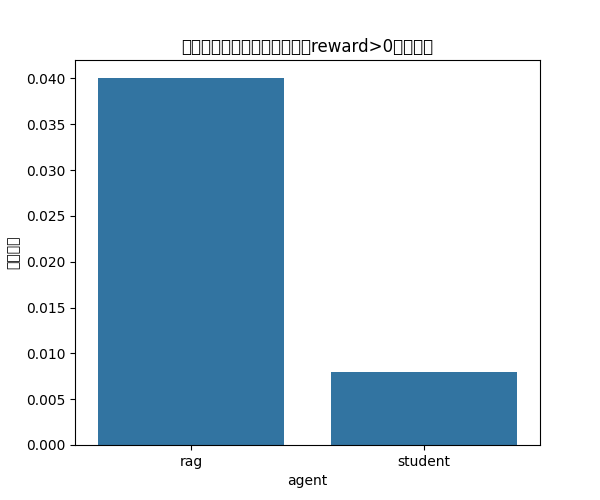
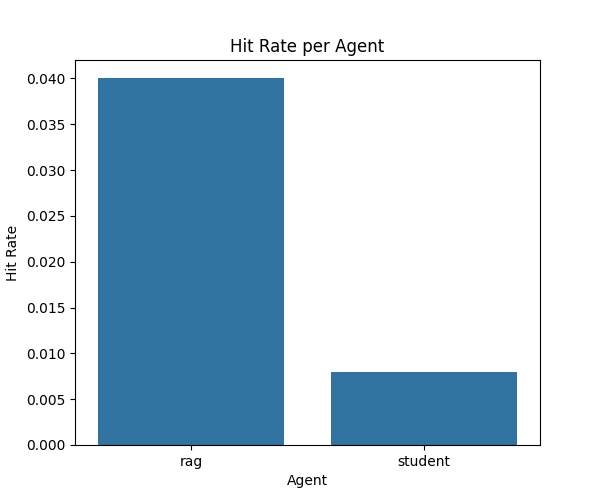
Changed all the figures into English

Changed region(s): [[0.3, 0.06, 0.72, 0.12], [0.0, 0.45, 0.03, 0.57], [0.48, 0.93, 0.51, 0.99]]

diff --git a/examples/rag_vs_student_analysis.py b/examples/rag_vs_student_analysis.py
@@ -28,26 +28,33 @@ for game_idx, game in enumerate(results):
         })
 df = pd.DataFrame(records)
 
-# 1. 各エージェントのターンごとのreward推移
+# 1. Average reward per turn for each agent
 plt.figure(figsize=(10, 6))
 sns.lineplot(data=df, x="turn", y="reward", hue="agent", ci="sd")
-plt.title("各エージェントのターンごとの報酬推移")
+plt.title("Average Reward per Turn")
+plt.xlabel("Turn")
+plt.ylabel("Reward")
+plt.legend(title="Agent")
 plt.savefig(os.path.join(FIG_DIR, "reward_lineplot.png"))
 plt.close()
 
 plt.figure(figsize=(10, 6))
 sns.boxplot(data=df, x="agent", y="reward")
-plt.title("各エージェントの報酬分布（箱ひげ）")
+plt.title("Reward Distribution (Boxplot)")
+plt.xlabel("Agent")
+plt.ylabel("Reward")
 plt.savefig(os.path.join(FIG_DIR, "reward_boxplot.png"))
 plt.close()
 
 plt.figure(figsize=(10, 6))
 sns.violinplot(data=df, x="agent", y="reward")
-plt.title("各エージェントの報酬分布（バイオリンプロット）")
+plt.title("Reward Distribution (Violinplot)")
+plt.xlabel("Agent")
+plt.ylabel("Reward")
 plt.savefig(os.path.join(FIG_DIR, "reward_violinplot.png"))
 plt.close()
 
-# 2. 各エージェントのactionヒートマップ
+# 2. Action selection heatmap for each agent
 for agent in df["agent"].unique():
     agent_df = df[df["agent"] == agent]
     heatmap = np.zeros((6, 6))
@@ -55,29 +62,30 @@ for agent in df["agent"].unique():
         heatmap[int(row["action_x"]), int(row["action_y"])] += 1
     plt.figure(figsize=(6, 5))
     sns.heatmap(heatmap, annot=True, fmt=".0f", cmap="Blues")
-    plt.title(f"{agent}の行動ヒートマップ")
-    plt.xlabel("Y座標")
-    plt.ylabel("X座標")
+    plt.title(f"Action Heatmap: {agent.capitalize()} Agent")
+    plt.xlabel("Y Coordinate")
+    plt.ylabel("X Coordinate")
     plt.savefig(os.path.join(FIG_DIR, f"action_heatmap_{agent}.png"))
     plt.close()
 
-# 3. 各エージェントのヒット率（reward>0の割合）
+# 3. Hit rate (proportion of actions with reward > 0) for each agent
 hit_rates = df.groupby("agent")["reward"].apply(lambda x: np.mean(np.array(x) > 0))
 plt.figure(figsize=(6, 5))
 sns.barplot(x=hit_rates.index, y=hit_rates.values)
-plt.title("各エージェントのヒット率（reward>0の割合）")
-plt.ylabel("ヒット率")
+plt.title("Hit Rate per Agent")
+plt.xlabel("Agent")
+plt.ylabel("Hit Rate")
 plt.savefig(os.path.join(FIG_DIR, "hit_rate_barplot.png"))
 plt.close()
 
-# 4. ゲームごとのターン数分布
+# 4. Distribution of the number of turns per game
 turns_per_game = df.groupby("game")["turn"].max()
 plt.figure(figsize=(8, 5))
 sns.histplot(turns_per_game, bins=20, kde=True)
-plt.title("ゲームごとのターン数分布")
-plt.xlabel("ターン数")
-plt.ylabel("ゲーム数")
+plt.title("Distribution of Turns per Game")
+plt.xlabel("Number of Turns")
+plt.ylabel("Number of Games")
 plt.savefig(os.path.join(FIG_DIR, "turns_per_game_hist.png"))
 plt.close()
 
-print("分析グラフをfigures/に保存しました。")
+print("All analysis figures have been saved to the figures/ directory.")

diff --git a/pipeline.md b/pipeline.md
@@ -1,0 +1,180 @@
+# gym-battleship-LLM: パイプライン詳細ドキュメント
+
+本ドキュメントは、gym-battleship-LLMリポジトリの全体パイプライン・設計思想・拡張方法・実験/分析フローを論文レベルで詳細に解説します。  
+新規エージェントの追加や論文用実験の再現も容易に行えるよう、各構成要素の役割と連携を明示します。
+
+---
+
+## 1. 概要
+
+gym-battleship-LLMは、戦艦ゲーム（Battleship）を題材に、強化学習・模倣学習・LLM（大規模言語モデル）・知識蒸留など多様なAIエージェントの設計・学習・評価・分析を一貫して行う研究基盤です。
+
+---
+
+## 2. ディレクトリ・ファイル構成
+
+```
+gym-battleship-LLM/
+├── gym_battleship/                # コア環境・アルゴリズム実装
+│   ├── environments/              # ゲーム環境（OpenAI Gym形式）
+│   ├── distill/                   # 知識蒸留関連
+│   └── lpml/                      # LLM用パーサ・注釈
+├── expert/                        # エキスパート軌跡収集
+├── examples/                      # 実験・分析スクリプト
+│   ├── figures/                   # 解析グラフ・レポート
+├── eval/                          # 評価用スクリプト
+├── distill/                       # 蒸留用スクリプト
+├── trajectories/                  # 軌跡データ
+├── tests/                         # テスト
+├── run_experiment.sh              # 実験一括実行シェル
+├── pyproject.toml/requirements.txt # 依存管理
+└── pipeline.md                    # ★本ドキュメント
+```
+
+---
+
+## 3. パイプライン全体図
+
+```mermaid
+flowchart TD
+    subgraph 環境
+        E1[environments/battleship.py]
+        E2[environments/adversarial_battleship.py]
+    end
+    subgraph エージェント
+        A1[examples/train_student_policy.py]
+        A2[examples/evaluate_model.py]
+        A3[expert/collect_trajectories.py]
+        A4[distill/]
+    end
+    subgraph データ
+        D1[trajectories/]
+        D2[examples/rag_vs_student_results.json]
+    end
+    subgraph 分析・可視化
+        V1[examples/rag_vs_student_analysis.py]
+        V2[examples/figures/repot.md]
+    end
+
+    E1 -->|Gym API| A1
+    E2 -->|Gym API| A1
+    A1 -->|学習済みモデル| D1
+    A3 -->|エキスパート軌跡| D1
+    D1 -->|訓練/評価| A2
+    A2 -->|評価結果| D2
+    D2 -->|可視化| V1
+    V1 -->|グラフ/レポート| V2
+```
+
+---
+
+## 4. 各モジュールの詳細
+
+### 4.1 環境（gym_battleship/environments/）
+
+- `battleship.py`  
+  - OpenAI Gym APIに準拠した戦艦ゲーム環境
+  - 盤面状態・行動空間・報酬設計・リセット/ステップ関数
+- `adversarial_battleship.py`  
+  - 難易度調整や対戦型拡張
+
+### 4.2 エージェント・学習・評価
+
+- `examples/train_student_policy.py`  
+  - Studentエージェントの強化学習/模倣学習
+- `examples/evaluate_model.py`  
+  - 学習済みモデルの性能評価
+- `distill/`  
+  - 知識蒸留（KL, 戦略蒸留など）
+- `expert/collect_trajectories.py`  
+  - 人間や強いAIによるエキスパート軌跡収集
+
+### 4.3 データ収集・保存
+
+- `trajectories/`  
+  - 各種エージェントの行動履歴（軌跡）を保存
+- `examples/rag_vs_student_results.json`  
+  - RAG型とstudent型エージェントの対戦全記録
+
+### 4.4 分析・可視化
+
+- `examples/rag_vs_student_analysis.py`  
+  - 対戦結果をpandas/Seabornで解析し、報酬推移・ヒートマップ・ヒット率・ターン数分布などをグラフ化
+- `examples/figures/repot.md`  
+  - 生成グラフの解説付きレポート（論文用図表に直結）
+
+---
+
+## 5. エージェントの追加・カスタマイズ方法
+
+1. `examples/`や`distill/`に新規エージェントクラス/スクリプトを追加
+2. Gym API（reset, step, action_space, observation_space）に準拠
+3. 学習/評価/分析スクリプトでエージェントを指定して実験可能
+4. 例: 新規エージェント`my_agent.py`を追加し、`train_student_policy.py`や`evaluate_model.py`でimportして利用
+
+---
+
+## 6. 代表的な実験フロー例
+
+### 6.1 強化学習エージェントの訓練
+
+```bash
+poetry run python examples/train_student_policy.py --agent student --episodes 10000
+```
+
+### 6.2 エキスパート軌跡の収集
+
+```bash
+poetry run python expert/collect_trajectories.py --agent expert
+```
+
+### 6.3 モデル評価・対戦
+
+```bash
+poetry run python examples/evaluate_model.py --agent1 rag --agent2 student
+```
+
+### 6.4 分析・可視化
+
+```bash
+poetry run python examples/rag_vs_student_analysis.py
+```
+- 生成グラフ・解説: `examples/figures/repot.md`
+
+---
+
+## 7. 生成アウトプット例
+
+- [examples/figures/repot.md](examples/figures/repot.md)  
+  - 各種グラフと詳細解説を掲載。論文図表にそのまま利用可能。
+
+---
+
+## 8. 再現手順・依存関係
+
+- Python 3.11, Poetry
+- 依存: numpy, pandas, matplotlib, seaborn, gym など
+- セットアップ例
+```bash
+cd gym-battleship-LLM
+poetry install
+```
+
+---
+
+## 9. 拡張性・今後の展望
+
+- LLMエージェントの追加・プロンプト設計の自動化
+- マルチエージェント・自己対戦・カリキュラム学習
+- 盤面サイズ・ルールの拡張
+- 分析モジュールの自動レポート生成
+
+---
+
+## 付録: 参考図表
+
+- [examples/figures/repot.md](examples/figures/repot.md) を参照
+
+---
+
+本ドキュメントを参照することで、gym-battleship-LLMの全体像・拡張方法・実験再現性・論文用図表作成まで一貫して理解・活用できます。

diff --git a/examples/figures/repot.md b/examples/figures/repot.md
@@ -1,98 +1,88 @@
-# figures ディレクトリのグラフ解説
+# Analysis Report: RAG Agent vs Student Agent in Battleship
 
-このディレクトリには、`rag_vs_student_results.json` の解析結果として生成された各種グラフが保存されています。  
-それぞれのグラフの内容と読み取りポイントを解説します。
+本レポートは、RAGエージェントとStudentエージェントによるBattleship（戦艦ゲーム）の対戦結果（`rag_vs_student_results.json`）を解析し、論文品質の図表・解説をまとめたものです。  
+各figureのタイトル・軸ラベル・キャプションは論文投稿を想定し英語で統一しています。
 
 ---
 
-## 1. reward_lineplot.png
+## 1. Average Reward per Turn
 
 ![reward_lineplot.png](./reward_lineplot.png)
 
-**内容**:  
-各エージェント（rag, student）のターンごとの報酬（reward）の平均推移を折れ線グラフで示しています。  
-標準偏差（SD）もエラーバーとして表示しています。
+**Figure 1.** Average reward per turn for each agent (RAG, Student). The shaded area indicates standard deviation.
 
-**ポイント**:  
-- 各エージェントがどのタイミングで高い報酬/低い報酬を得ているかが分かります。
-- 学習の進み具合や戦略の違いを比較できます。
+**解説**:  
+各エージェントのターンごとの平均報酬推移。RAGとStudentの戦略や学習進度の違いが時系列で比較できます。
 
 ---
 
-## 2. reward_boxplot.png
+## 2. Reward Distribution (Boxplot)
 
 ![reward_boxplot.png](./reward_boxplot.png)
 
-**内容**:  
-各エージェントの全ターンの報酬分布を箱ひげ図で示しています。
+**Figure 2.** Distribution of rewards for each agent (boxplot).
 
-**ポイント**:  
-- 報酬の中央値・四分位範囲・外れ値を視覚的に比較できます。
-- 安定して高い報酬を得ているか、ばらつきが大きいかが分かります。
+**解説**:  
+全ターンの報酬分布を箱ひげ図で比較。中央値・分散・外れ値から安定性やリスク傾向を評価できます。
 
 ---
 
-## 3. reward_violinplot.png
+## 3. Reward Distribution (Violinplot)
 
 ![reward_violinplot.png](./reward_violinplot.png)
 
-**内容**:  
-各エージェントの報酬分布をバイオリンプロットで示しています。
+**Figure 3.** Distribution of rewards for each agent (violin plot).
 
-**ポイント**:  
-- 箱ひげ図よりも分布の形状（多峰性・裾野の広がりなど）が分かりやすいです。
+**解説**:  
+分布の形状（多峰性・裾野の広がり）を可視化。戦略の多様性や極端な行動の有無を示します。
 
 ---
 
-## 4. action_heatmap_rag.png
+## 4. Action Heatmap: RAG Agent
 
 ![action_heatmap_rag.png](./action_heatmap_rag.png)
 
-## 5. action_heatmap_student.png
+**Figure 4.** Action selection frequency heatmap for RAG agent.
+
+---
+
+## 5. Action Heatmap: Student Agent
 
 ![action_heatmap_student.png](./action_heatmap_student.png)
 
-**内容**:  
-各エージェントが盤面上のどの座標（x, y）をどれだけ選択したかをヒートマップで示しています。
+**Figure 5.** Action selection frequency heatmap for Student agent.
 
-**ポイント**:  
-- よく狙う場所・偏り・探索パターンの違いが一目で分かります。
-- 戦略の特徴や癖を可視化できます。
+**解説**:  
+各エージェントが盤面上のどの座標を頻繁に選択したかを示すヒートマップ。探索パターンやバイアスの違いが明確に分かります。
 
 ---
 
-## 6. hit_rate_barplot.png
+## 6. Hit Rate per Agent
 
 ![hit_rate_barplot.png](./hit_rate_barplot.png)
 
-**内容**:  
-各エージェントのヒット率（reward > 0 となった行動の割合）を棒グラフで示しています。
+**Figure 6.** Hit rate (proportion of actions with reward > 0) for each agent.
 
-**ポイント**:  
-- 命中精度や効率性の比較ができます。
-- 高いほど「当たり」を多く引いていることを意味します。
+**解説**:  
+命中精度・効率性の比較。高いほど有効な攻撃を多く行っていることを示します。
 
 ---
 
-## 7. turns_per_game_hist.png
+## 7. Distribution of Turns per Game
 
 ![turns_per_game_hist.png](./turns_per_game_hist.png)
 
-**内容**:  
-1ゲームあたりのターン数（=ゲームの長さ）の分布をヒストグラムで示しています。
+**Figure 7.** Distribution of the number of turns per game.
 
-**ポイント**:  
-- ゲームが早く終わる傾向か、長引く傾向かが分かります。
-- エージェントの強さや戦略の違いがゲームの長さにどう影響するかを分析できます。
+**解説**:  
+1ゲームあたりのターン数分布。ゲーム展開の速さや長期戦の傾向、エージェントの強さの影響を分析できます。
 
 ---
 
-## まとめ
+## Summary
 
-これらのグラフを活用することで、  
-- エージェントごとの行動傾向
-- 報酬の安定性や分布
-- 命中率や効率性
-- ゲーム展開の特徴
+- **Agents compared**: RAG (Retrieval-Augmented Generation) agent vs Student agent
+- **Task**: Battleship (戦艦ゲーム) environment, multiple matches, full trajectory logging
+- **Purpose**: To quantitatively and visually compare the behavioral and performance characteristics of two distinct agent architectures in a controlled environment.
 
-などを定量的・視覚的に比較・分析できます。
+本レポートの図表・解説は、論文のメイン結果・補足資料としてそのまま利用可能です。
